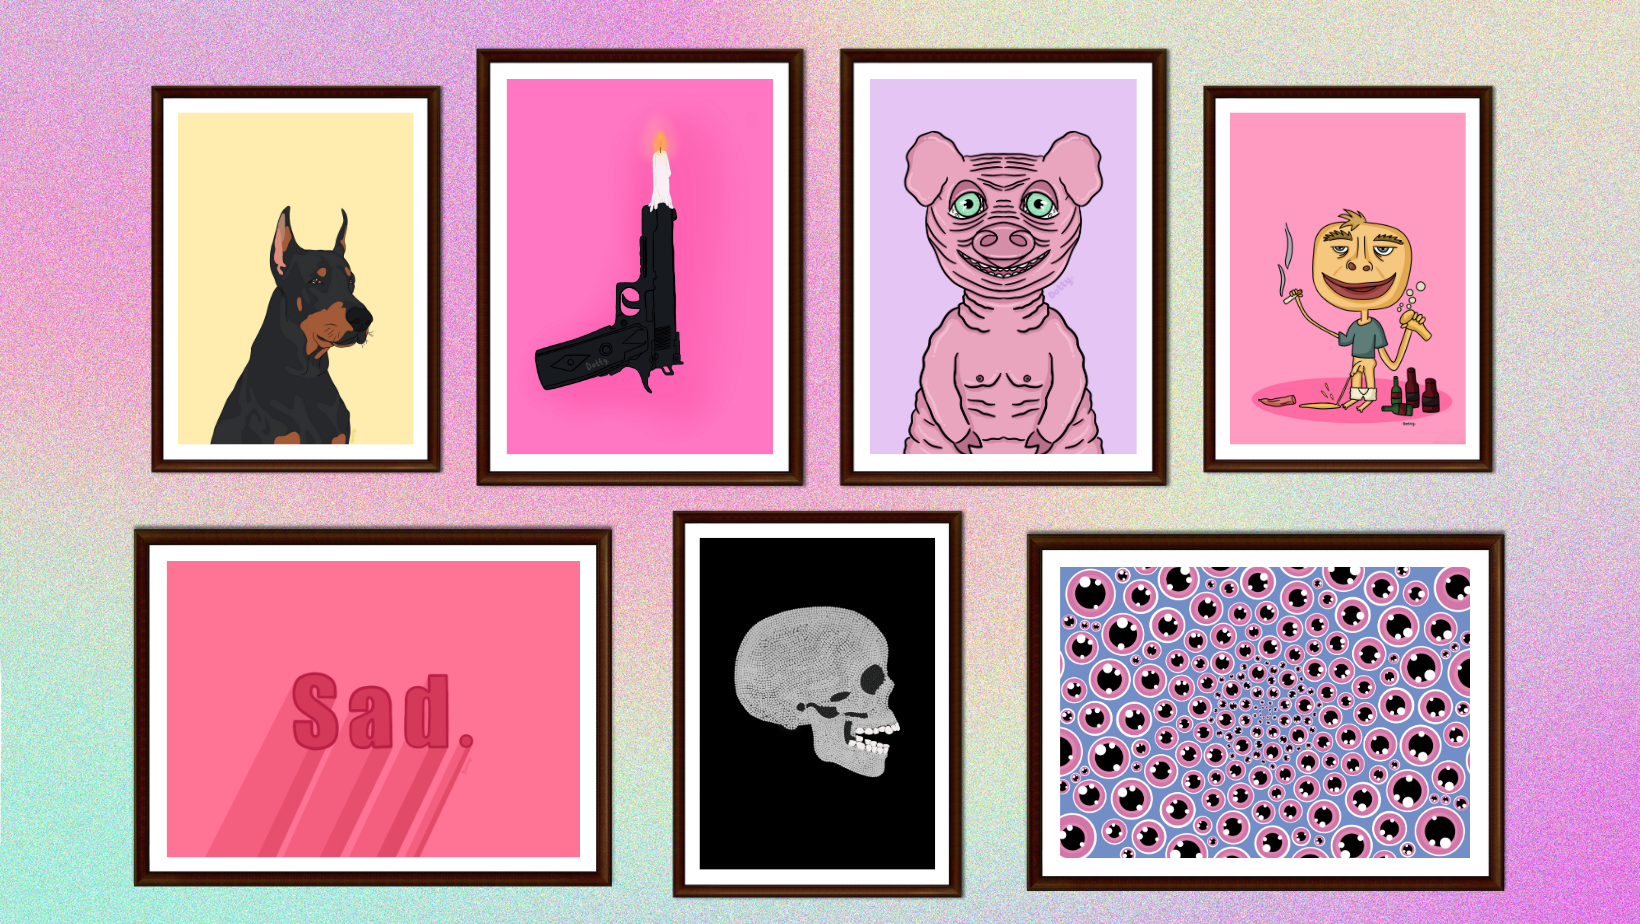
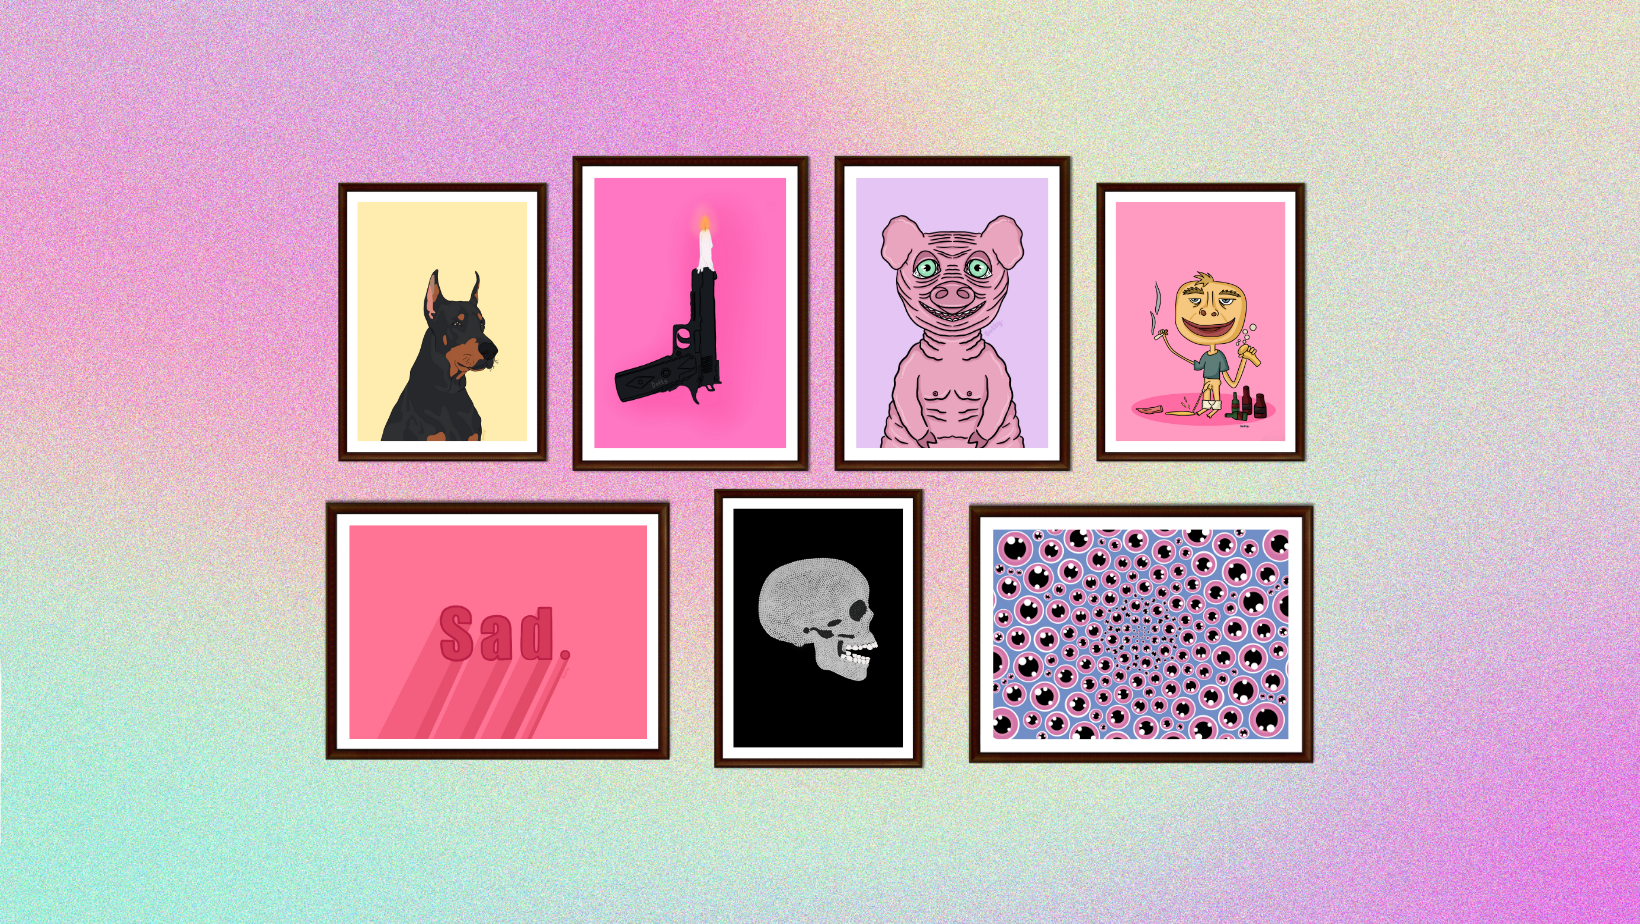
Use new hero image with all artwork visible

diff --git a/src/components/landing/hero.tsx b/src/components/landing/hero.tsx
@@ -10,12 +10,12 @@ export function Hero(): React.ReactElement {
     <section className="relative min-h-screen flex items-center justify-center overflow-hidden bg-background">
       <div className="absolute inset-0">
         <Image
-          src="/hero.webp"
+          src="/hero.png"
           alt=""
           fill
           priority
           quality={100}
-          className="object-contain object-top"
+          className="object-contain object-center"
           sizes="100vw"
         />
         {/* Soft gradient fade at bottom */}
